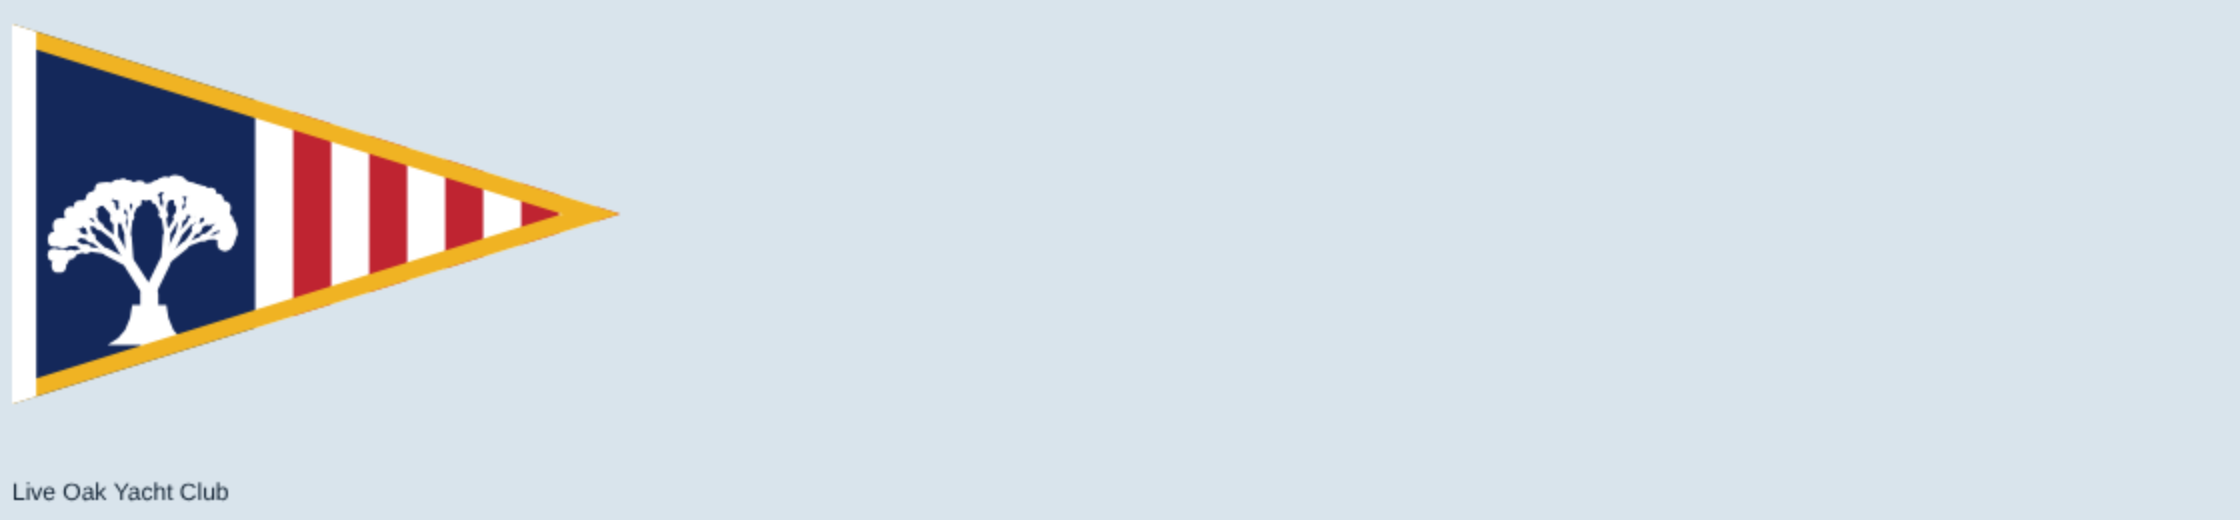
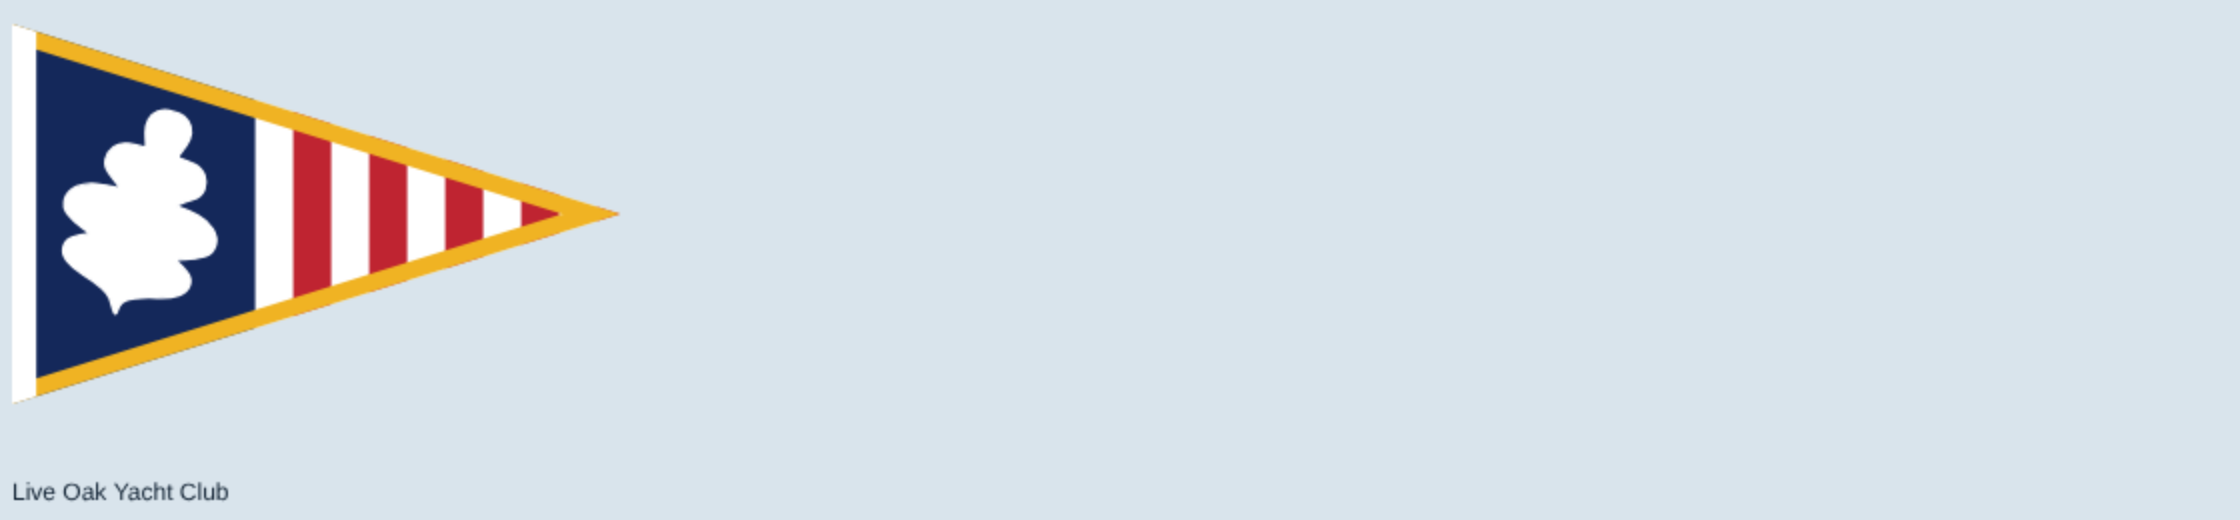
Burgees: Live Oak carries a single white oak leaf, slightly angled, well inside the panel
Claude-Session: https://claude.ai/code/session_012Uu5QjYRsEpBxuz7xgHWhs

Changed region(s): [[0.0, 0.2154, 0.125, 0.6769]]

diff --git a/src/render/burgeeArt.ts b/src/render/burgeeArt.ts
@@ -23,32 +23,18 @@ const arc = (g: G, c: string, w: number, x: number, y: number, r: number, a0: nu
 const border = (g: G, W: number, H: number, shape: 'pennant' | 'swallow', c: string, d: number) => { burgeePath(g, W, H, shape); g.strokeStyle = c; g.lineWidth = H * d * 2; g.lineJoin = 'miter'; g.stroke(); };
 
 
-/** A mulberry32 stream: the same numbers for the same seed. */
-const rng = (seed: number) => () => { seed = (seed + 0x6D2B79F5) | 0; let t = Math.imul(seed ^ (seed >>> 15), 1 | seed); t = (t + Math.imul(t ^ (t >>> 7), 61 | t)) ^ t; return ((t ^ (t >>> 14)) >>> 0) / 4294967296; };
 /**
- * A white oak, grown: segments (a trunk forking to limbs to branches to twigs, each thinner and shorter) and blobs of
- * leaves at the twig ends and the last forks. It is fitted afterwards into the box under the flag's top edge: its middle
- * at x, its roots at 84% of the hoist, about 0.5 hoists wide and 0.6 tall.
+ * A white oak leaf, as a silhouette: four rounded lobes a side, deep sinuses between, a short stem. (x, y) is its middle;
+ * `len` its length from the tip to the foot of the stem; `ang` the lean from upright, clockwise, in radians.
  */
-function oak(g: G, x: number, H: number, seed: number): void {
-  const R = rng(seed), segs: { a: P; b: P; w: number }[] = [], blobs: { p: P; r: number }[] = [];
-  const grow = (px: number, py: number, ang: number, len: number, w: number, d: number): void => {
-    const qx = px + Math.sin(ang) * len, qy = py - Math.cos(ang) * len; segs.push({ a: [px, py], b: [qx, qy], w });
-    if (d >= 5) { for (let i = 0; i < 4; i++) blobs.push({ p: [qx + (R() - 0.5) * 0.06, qy + (R() - 0.5) * 0.05], r: 0.03 + R() * 0.02 }); return; }
-    if (d >= 3) blobs.push({ p: [qx, qy], r: 0.022 + R() * 0.012 });
-    const spread = d === 0 ? 0.5 : 0.26 + R() * 0.24, n = d <= 1 && R() < 0.5 ? 3 : 2, shrink = 0.72 + R() * 0.08;
-    for (let i = 0; i < n; i++) { const off = n === 3 ? (i - 1) * spread : (i === 0 ? -1 : 1) * (spread * (0.7 + R() * 0.6)); grow(qx, qy, ang + off + (R() - 0.5) * 0.2, len * shrink * (n === 3 && i === 1 ? 1.05 : 1), w * 0.64, d + 1); }
-  };
-  grow(0, 0, 0, 0.3, 0.11, 0);
-  let x0 = 1e9, x1 = -1e9, y0 = 1e9, y1 = -1e9;
-  for (const s of segs) for (const p of [s.a, s.b]) { x0 = Math.min(x0, p[0]); x1 = Math.max(x1, p[0]); y0 = Math.min(y0, p[1]); y1 = Math.max(y1, p[1]); }
-  for (const b of blobs) { x0 = Math.min(x0, b.p[0] - b.r); x1 = Math.max(x1, b.p[0] + b.r); y0 = Math.min(y0, b.p[1] - b.r); y1 = Math.max(y1, b.p[1] + b.r); }
-  const fitW = 0.5, fitH = 0.64, k = Math.min(fitW / (x1 - x0), fitH / (y1 - y0)), ox = x - (x0 + x1) / 2 * k * H, oy = H * 0.84 - 0 * y0;
-  const T = (p: P): P => [ox + p[0] * k * H, oy + p[1] * k * H];
-  g.lineCap = 'round'; g.lineJoin = 'round'; g.strokeStyle = WHITE; g.fillStyle = WHITE;
-  for (const s of segs) { g.lineWidth = Math.max(s.w * k * H, H * 0.012); g.beginPath(); g.moveTo(...T(s.a)); g.lineTo(...T(s.b)); g.stroke(); }
-  for (const b of blobs) { const [bx, by] = T(b.p); g.beginPath(); g.arc(bx, by, b.r * k * H, 0, 7); g.fill(); }
-  const [rx, ry] = T([0, 0]); g.beginPath(); g.moveTo(rx - H * 0.045, ry - H * 0.1); g.quadraticCurveTo(rx - H * 0.05, ry - H * 0.02, rx - H * 0.11, ry + H * 0.005); g.lineTo(rx + H * 0.11, ry + H * 0.005); g.quadraticCurveTo(rx + H * 0.05, ry - H * 0.02, rx + H * 0.045, ry - H * 0.1); g.closePath(); g.fill(); // the trunk's flared foot
+function oakLeaf(g: G, x: number, y: number, len: number, ang: number, c: string): void {
+  const half: P[] = [[0, 0], [0.05, 0], [0.1, 0.04], [0.11, 0.1], [0.09, 0.16], [0.075, 0.2], [0.12, 0.2], [0.2, 0.21], [0.245, 0.27], [0.24, 0.34], [0.17, 0.39], [0.13, 0.42], [0.2, 0.42], [0.3, 0.44], [0.37, 0.5], [0.37, 0.58], [0.3, 0.63], [0.2, 0.66], [0.25, 0.68], [0.31, 0.72], [0.31, 0.79], [0.24, 0.84], [0.12, 0.87], [0.04, 0.91], [0.02, 0.94], [0.02, 1]];
+  const pts: P[] = [...half, ...half.slice(0, -1).reverse().map(([a, b]): P => [-a, b])];
+  g.save(); g.translate(x, y); g.rotate(ang); g.translate(0, -len / 2);
+  g.fillStyle = c; g.strokeStyle = c; g.lineJoin = 'round'; g.lineWidth = len * 0.012;
+  // (a smooth outline: curves through the midpoints of the points, so the lobes are round)
+  const n = pts.length, mid = (i: number): P => [(pts[i % n][0] + pts[(i + 1) % n][0]) / 2 * len, (pts[i % n][1] + pts[(i + 1) % n][1]) / 2 * len];
+  g.beginPath(); g.moveTo(...mid(0)); for (let i = 1; i <= n; i++) { const m = mid(i); g.quadraticCurveTo(pts[i % n][0] * len, pts[i % n][1] * len, m[0], m[1]); } g.closePath(); g.fill(); g.stroke(); g.restore();
 }
 
 export const PARODY_BURGEES: Burgee[] = [
@@ -110,13 +96,12 @@ export const PARODY_BURGEES: Burgee[] = [
     draw: (g, W, H) => { fill(g, W, H, '#2fa04a'); rect(g, '#f6d21a', 0, H * 0.7, W, H * 0.3); dot(g, '#f6d21a', W * 0.2, H * 0.46, H * 0.2); } },
   { id: 'emyc', shape: 'pennant', ratio: 1.5, // small and informal: sky, reed green, mud; a tide line
     draw: (g, W, H) => { fill(g, W, H, '#8ec7e8'); rect(g, '#6b5338', 0, H * 0.62, W, H * 0.38); rect(g, '#4c7a3a', 0, H * 0.5, W, H * 0.12); } },
-  { id: 'eyc', shape: 'pennant', ratio: 1.6, // classic, 1890 (the owner's template): a dark-blue hoist panel bearing a white oak, then red and white stripes to the point, a gold border, a white hoist band
+  { id: 'eyc', shape: 'pennant', ratio: 1.6, // classic, 1890 (the owner's template): a dark-blue hoist panel bearing one white oak leaf, then red and white stripes to the point, a gold border, a white hoist band
     draw: (g, W, H) => { const X0 = W * 0.215, BORDER = '#f0b323';
       fill(g, W, H, WHITE);
       rect(g, NAVY, 0, 0, W * 0.4, H); // the hoist panel
       for (let k = 0; W * (0.4 + (2 * k + 1) * 0.0625) < W; k++) rect(g, RED, W * (0.4 + (2 * k + 1) * 0.0625), 0, W * 0.0625, H); // the stripes, red and white
-      // the oak, in white, grown: a thick trunk forks into limbs, the limbs into branches, and the twigs end in clusters of leaves, so the crown is lacy with sky through it (seeded, so it is the same tree every time)
-      oak(g, X0, H, 3);
+      oakLeaf(g, X0 + H * 0.0, H * 0.5, H * 0.56, 0.3, WHITE); // one white oak leaf, leaning a little toward the fly, well inside the panel
       border(g, W, H, 'pennant', BORDER, 0.045); rect(g, WHITE, 0, 0, W * 0.04, H); } },
   { id: 'oyc', shape: 'pennant', ratio: 1.5, // established: navy, white and green; one oak tree
     draw: (g, W, H) => { fill(g, W, H, NAVY); rect(g, WHITE, W * 0.18, H * 0.56, W * 0.04, H * 0.2); dot(g, '#2e8b3e', W * 0.2, H * 0.42, H * 0.17); } },
